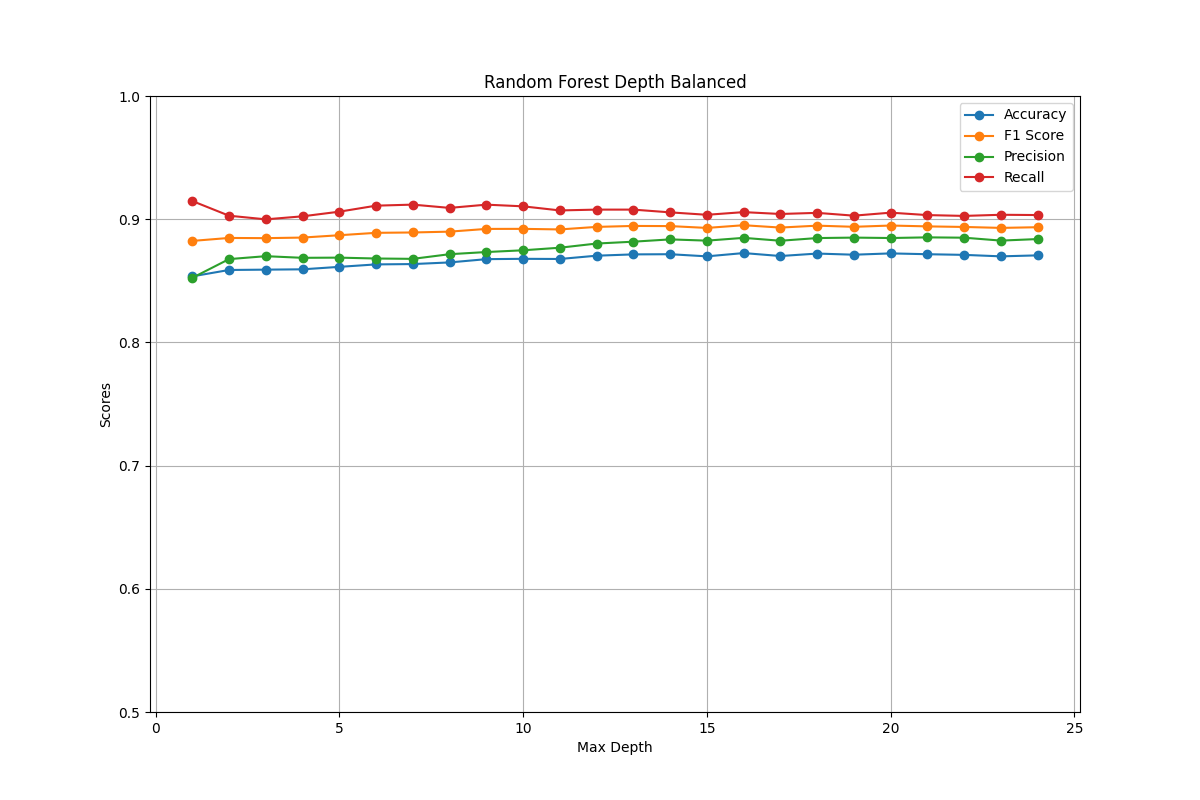
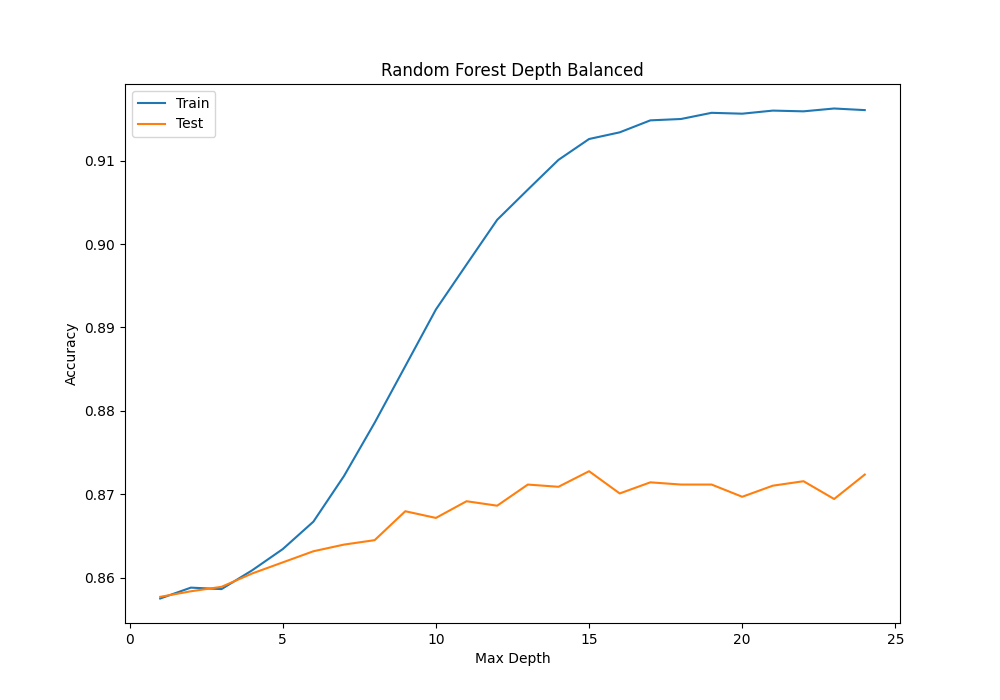
Modifiche a supervised

diff --git a/supervised.py b/supervised.py
@@ -1,5 +1,5 @@
 import pandas as pd
-from sklearn.model_selection import train_test_split, KFold, cross_validate, learning_curve
+from sklearn.model_selection import train_test_split, KFold, cross_validate
 from sklearn.preprocessing import StandardScaler, LabelEncoder
 from sklearn.ensemble import RandomForestClassifier, GradientBoostingClassifier
 from sklearn.linear_model import LogisticRegression
@@ -99,10 +99,15 @@ def training_randomforest_on_maxdepth(X_train, y_train, X_test, y_test, best_par
 
     max_depth_values = [i for i in range(1,25)]
 
-    accuracy_scores = []
-    f1_scores = []
-    precision_scores = []
-    recall_scores = []
+    accuracy_train_scores = []
+    f1_train_scores = []
+    precision_train_scores = []
+    recall_train_scores = []
+
+    accuracy_test_scores = []
+    f1_test_scores = []
+    precision_test_scores = []
+    recall_test_scores = []
 
     for max_depth in max_depth_values:
         model = RandomForestClassifier(
@@ -127,31 +132,32 @@ def training_randomforest_on_maxdepth(X_train, y_train, X_test, y_test, best_par
             'precision': make_scorer(precision_score),
             'recall': make_scorer(recall_score)
             }
-        results = cross_validate(pipe, X_train, y_train, cv=kf, scoring=scoring)
-        accuracy_scores.append(results['test_accuracy'].mean())
-        f1_scores.append(results['test_f1'].mean())
-        precision_scores.append(results['test_precision'].mean())
-        recall_scores.append(results['test_recall'].mean())
+        results = cross_validate(pipe, X_train, y_train, cv=kf, scoring=scoring, return_train_score=True)
+
+        accuracy_train_scores.append(results['train_accuracy'].mean())
+        f1_train_scores.append(results['train_f1'].mean())
+        precision_train_scores.append(results['train_precision'].mean())
+        recall_train_scores.append(results['train_recall'].mean())
+
+        accuracy_test_scores.append(results['test_accuracy'].mean())
+        f1_test_scores.append(results['test_f1'].mean())
+        precision_test_scores.append(results['test_precision'].mean())
+        recall_test_scores.append(results['test_recall'].mean())
 
     if three_class:
         if balanced:
-            plot_scores(max_depth_values, accuracy_scores, f1_scores, precision_scores, recall_scores, 'Max Depth', 'Random Forest Depth Balanced Three Class',three_class=True)
-            plot_learning_curve(X_train, y_train, pipe, 'Random Forest Depth Learning Curve Balanced Three Class',three_class=True)
+            plot_scores(max_depth_values, accuracy_train_scores, accuracy_test_scores, 'Max Depth', 'Random Forest Depth Balanced Three Class',three_class=True)
         else:
-            plot_scores(max_depth_values, accuracy_scores, f1_scores, precision_scores, recall_scores, 'Max Depth', 'Random Forest Depth Not Balanced Three Class',three_class=True)
-            plot_learning_curve(X_train, y_train, pipe, 'Random Forest Depth Learning Curve Not Balanced Three Class',three_class=True)
+            plot_scores(max_depth_values, accuracy_train_scores, accuracy_test_scores, 'Max Depth', 'Random Forest Depth Not Balanced Three Class',three_class=True)
     else:
         if balanced:
-            plot_scores(max_depth_values, accuracy_scores, f1_scores, precision_scores, recall_scores, 'Max Depth', 'Random Forest Depth Balanced',three_class=False)
-            plot_learning_curve(X_train, y_train, pipe, 'Random Forest Depth Learning Curve Balanced',three_class=False)
+            plot_scores(max_depth_values, accuracy_train_scores, accuracy_test_scores, 'Max Depth', 'Random Forest Depth Balanced',three_class=False)
         else:
-            plot_scores(max_depth_values, accuracy_scores, f1_scores, precision_scores, recall_scores, 'Max Depth', 'Random Forest Depth Not Balanced',three_class=False)
-            plot_learning_curve(X_train, y_train, pipe, 'Random Forest Depth Learning Curve Not Balanced',three_class=False)
-    
+            plot_scores(max_depth_values, accuracy_train_scores, accuracy_test_scores, 'Max Depth', 'Random Forest Depth Not Balanced',three_class=False)
  
     #convertire in numpy array per usare argmax
-    accuracy_scores = np.array(accuracy_scores)
-    best_accuracy = accuracy_scores.argmax()
+    accuracy_test_scores = np.array(accuracy_test_scores)
+    best_accuracy = accuracy_test_scores.argmax()
 
     model = RandomForestClassifier(
             criterion=best_params['model__criterion'],
@@ -161,6 +167,7 @@ def training_randomforest_on_maxdepth(X_train, y_train, X_test, y_test, best_par
     
     pipe = Pipeline([('scaler', StandardScaler()), ('model', model)])
     pipe.fit(X_train, y_train)
+    
     y_pred = pipe.predict(X_test)
 
     if three_class:
@@ -175,6 +182,7 @@ def training_randomforest_on_maxdepth(X_train, y_train, X_test, y_test, best_par
             plot_confusion_matrix(y_test, y_pred, 'RandomForestMaxDepthNotBalanced',three_class=False)
 
     if three_class:
+
         accuracy = accuracy_score(y_test, y_pred)
         f1 = f1_score(y_test, y_pred, average='macro', zero_division=0)
         precision = precision_score(y_test, y_pred, average='macro', zero_division=0)
@@ -253,17 +261,13 @@ def training_randomforest_on_n_estimators(X_train, y_train, X_test, y_test, best
         if three_class:
             if balanced:
                 plot_scores(n_estimators_values, accuracy_scores, f1_scores, precision_scores, recall_scores, 'N Estimators', 'Random Forest Estimators Balanced Three Class',three_class=True)
-                plot_learning_curve(X_train, y_train, pipe, 'Random Forest Estimators Learning Curve Balanced Three Class',three_class=True)
             else:
                 plot_scores(n_estimators_values, accuracy_scores, f1_scores, precision_scores, recall_scores, 'N Estimators', 'Random Forest Estimators Not Balanced Three Class',three_class=True)
-                plot_learning_curve(X_train, y_train, pipe, 'Random Forest Estimators Learning Curve Not Balanced Three Class',three_class=True)
         else:
             if balanced:
                 plot_scores(n_estimators_values, accuracy_scores, f1_scores, precision_scores, recall_scores, 'N Estimators', 'Random Forest Estimators Balanced',three_class=False)
-                plot_learning_curve(X_train, y_train, pipe, 'Random Forest Estimators Learning Curve Balanced',three_class=False)
             else:
                 plot_scores(n_estimators_values, accuracy_scores, f1_scores, precision_scores, recall_scores, 'N Estimators', 'Random Forest Estimators Not Balanced',three_class=False)
-                plot_learning_curve(X_train, y_train, pipe, 'Random Forest Estimators Learning Curve Not Balanced',three_class=False)
 
         accuracy_scores = np.array(accuracy_scores)
         best_accuracy = accuracy_scores.argmax()
@@ -371,17 +375,13 @@ def training_DecisionTree(X_train, y_train, X_test, y_test, best_params, balance
         if three_class:
             if balanced:
                 plot_scores(max_depth_values, accuracy_scores, f1_scores, precision_scores, recall_scores, 'Max Depth', 'Decision Tree Balanced Three Class',three_class=True)
-                plot_learning_curve(X_train, y_train, pipe, 'Decision Tree Learning Curve Balanced Three Class',three_class=True)
             else:
                 plot_scores(max_depth_values, accuracy_scores, f1_scores, precision_scores, recall_scores, 'Max Depth', 'Decision Tree Not Balanced Three Class',three_class=True)
-                plot_learning_curve(X_train, y_train, pipe, 'Decision Tree Learning Curve Not Balanced Three Class',three_class=True)
         else:
             if balanced:
                 plot_scores(max_depth_values, accuracy_scores, f1_scores, precision_scores, recall_scores, 'Max Depth', 'Decision Tree Balanced',three_class=False)
-                plot_learning_curve(X_train, y_train, pipe, 'Decision Tree Learning Curve Balanced',three_class=False)
             else:
                 plot_scores(max_depth_values, accuracy_scores, f1_scores, precision_scores, recall_scores, 'Max Depth', 'Decision Tree Not Balanced',three_class=False)
-                plot_learning_curve(X_train, y_train, pipe, 'Decision Tree Learning Curve Not Balanced',three_class=False)
 
         accuracy_scores = np.array(accuracy_scores)
         best_accuracy = accuracy_scores.argmax()
@@ -563,17 +563,13 @@ def training_GradientBoosting_on_maxdepth(X_train, y_train, X_test, y_test, best
             if three_class:
                 if balanced:
                     plot_scores(max_depth_values, accuracy_scores, f1_scores, precision_scores, recall_scores, 'Max Depth', 'Gradient Boosting Depth Balanced Three Class',three_class=True)
-                    plot_learning_curve(X_train, y_train, pipe, 'Gradient Boosting Depth Learning Curve Balanced Three Class',three_class=True)
                 else:
                     plot_scores(max_depth_values, accuracy_scores, f1_scores, precision_scores, recall_scores, 'Max Depth', 'Gradient Boosting Depth Not Balanced Three Class',three_class=True)
-                    plot_learning_curve(X_train, y_train, pipe, 'Gradient Boosting Depth Learning Curve Not Balanced Three Class',three_class=True)
             else:
                 if balanced:
                     plot_scores(max_depth_values, accuracy_scores, f1_scores, precision_scores, recall_scores, 'Max Depth', 'Gradient Boosting Depth Balanced',three_class=False)
-                    plot_learning_curve(X_train, y_train, pipe, 'Gradient Boosting Depth Learning Curve Balanced',three_class=False)
                 else:
                     plot_scores(max_depth_values, accuracy_scores, f1_scores, precision_scores, recall_scores, 'Max Depth', 'Gradient Boosting Depth Not Balanced',three_class=False)
-                    plot_learning_curve(X_train, y_train, pipe, 'Gradient Boosting Depth Learning Curve Not Balanced',three_class=False)
 
             accuracy_scores = np.array(accuracy_scores)
             best_acc = accuracy_scores.argmax()
@@ -683,17 +679,14 @@ def training_GradientBoosting_on_n_estimators(X_train, y_train, X_test, y_test, 
             if three_class:
                 if balanced:
                     plot_scores(n_estimators_values, accuracy_scores, f1_scores, precision_scores, recall_scores, 'N Estimators', 'Gradient Boosting Estimators Balanced Three Class',three_class=True)
-                    plot_learning_curve(X_train, y_train, pipe, 'Gradient Boosting Estimators Learning Curve Balanced Three Class',three_class=True)
                 else:
                     plot_scores(n_estimators_values, accuracy_scores, f1_scores, precision_scores, recall_scores, 'N Estimators', 'Gradient Boosting Estimators Not Balanced Three Class',three_class=True)
-                    plot_learning_curve(X_train, y_train, pipe, 'Gradient Boosting Estimators Learning Curve Not Balanced Three Class',three_class=True)
             else:
                 if balanced:
                     plot_scores(n_estimators_values, accuracy_scores, f1_scores, precision_scores, recall_scores, 'N Estimators', 'Gradient Boosting Estimators Balanced',three_class=False)
-                    plot_learning_curve(X_train, y_train, pipe, 'Gradient Boosting Estimators Learning Curve Balanced',three_class=False)
                 else:
                     plot_scores(n_estimators_values, accuracy_scores, f1_scores, precision_scores, recall_scores, 'N Estimators', 'Gradient Boosting Estimators Not Balanced',three_class=False)
-                    plot_learning_curve(X_train, y_train, pipe, 'Gradient Boosting Estimators Learning Curve Not Balanced',three_class=False)
+
         
             accuracy_scores = np.array(accuracy_scores)
             best_acc = accuracy_scores.argmax()
@@ -760,42 +753,14 @@ def training_GradientBoosting_on_n_estimators(X_train, y_train, X_test, y_test, 
                         f.write(f"Precision: {precision}\n")
                         f.write(f"Recall: {recall}\n")
 
-def plot_scores(x_values, accuracy_scores, f1_scores, precision_scores, recall_scores, x_label, title, three_class=True):
-    plt.figure(figsize=(12, 8))
-    
-    plt.plot(x_values, accuracy_scores, marker='o', label='Accuracy')
-    plt.plot(x_values, f1_scores, marker='o', label='F1 Score')
-    plt.plot(x_values, precision_scores, marker='o', label='Precision')
-    plt.plot(x_values, recall_scores, marker='o', label='Recall')
-    plt.ylim(0.5, 1)
+def plot_scores(x_values, accuracy_train_scores, accuracy_test_scores, x_label, title, three_class=True):
+    plt.figure(figsize=(10, 7))
+    plt.plot(x_values, accuracy_train_scores, label='Train')
+    plt.plot(x_values, accuracy_test_scores, label='Test')
     plt.xlabel(x_label)
-    plt.ylabel('Scores')
+    plt.ylabel('Accuracy')
     plt.title(title)
     plt.legend()
-    plt.grid(True)
-    if three_class:
-        plt.savefig(f'ThreeClassModels/{title}.png')
-    else:
-        plt.savefig(f'BinaryModels/{title}.png')
-
-def plot_learning_curve(X_train, y_train, model, title, three_class=True):
-    train_sizes, train_scores, test_scores = learning_curve(model, X_train, y_train, cv=5, n_jobs=-1, train_sizes=np.linspace(.1, 1.0, 10))
-    train_scores_mean = np.mean(train_scores, axis=1)
-    train_scores_std = np.std(train_scores, axis=1)
-    test_scores_mean = np.mean(test_scores, axis=1)
-    test_scores_std = np.std(test_scores, axis=1)
-
-    plt.figure(figsize=(10, 7))
-    plt.grid()
-    plt.plot(train_sizes, train_scores_mean, 'o-', color="r",
-             label="Training score")
-    plt.plot(train_sizes, test_scores_mean, 'o-', color="g",
-             label="Cross-validation score")
-
-    plt.xlabel("Training examples")
-    plt.ylabel("Score")
-    plt.legend(loc="best")
-    plt.title(title)
     if three_class:
         plt.savefig(f'ThreeClassModels/{title}.png')
     else:
@@ -873,9 +838,9 @@ def main():
     print("Random Forest non bilanciato binario")
     best_params_rf = search_best_hyperparameters(X_train, y_train, 'RandomForest')
     training_randomforest_on_maxdepth(X_train, y_train, X_test, y_test, best_params_rf, balanced=False, three_class=False)
-    training_randomforest_on_n_estimators(X_train, y_train, X_test, y_test, best_params_rf, balanced=False, three_class=False)
+    #training_randomforest_on_n_estimators(X_train, y_train, X_test, y_test, best_params_rf, balanced=False, three_class=False)'''
 
-    # Logistic Regression
+    '''# Logistic Regression
     print("Logistic Regression non bilanciato binario")
     best_params_lr = search_best_hyperparameters(X_train, y_train, 'LogisticRegression')
     training_LogisticRegression(X_train, y_train, X_test, y_test, best_params_lr, balanced=False, three_class=False)
@@ -919,11 +884,11 @@ def main():
 
     X_train, y_train, X_test, y_test = preprocess_data(balanced=True, three_class=False)
 
-    #Random Forest
+    '''#Random Forest
     print("Random Forest bilanciato binario")
     best_params_rf = search_best_hyperparameters(X_train, y_train, 'RandomForest')
-    training_randomforest_on_maxdepth(X_train, y_train, X_test, y_test, best_params_rf, balanced=True, three_class=False)
-    training_randomforest_on_n_estimators(X_train, y_train, X_test, y_test, best_params_rf, balanced=True, three_class=False)
+    training_randomforest_on_maxdepth(X_train, y_train, X_test, y_test, best_params_rf, balanced=True, three_class=False)'''
+    '''training_randomforest_on_n_estimators(X_train, y_train, X_test, y_test, best_params_rf, balanced=True, three_class=False)
 
     # Logistic Regression
     print("Logistic Regression bilanciato binario")
@@ -939,7 +904,7 @@ def main():
     print("Gradient Boosting bilanciato binario")
     best_params_gb = search_best_hyperparameters(X_train, y_train, 'GradientBoosting')
     training_GradientBoosting_on_maxdepth(X_train, y_train, X_test, y_test, best_params_gb, balanced=True, three_class=False)
-    training_GradientBoosting_on_n_estimators(X_train, y_train, X_test, y_test, best_params_gb, balanced=True, three_class=False)
+    training_GradientBoosting_on_n_estimators(X_train, y_train, X_test, y_test, best_params_gb, balanced=True, three_class=False)'''
 
 
     X_train, y_train, X_test, y_test = preprocess_data(balanced=True, three_class=True)
@@ -948,7 +913,7 @@ def main():
     print("Random Forest bilanciato tre classi")
     best_params_rf = search_best_hyperparameters(X_train, y_train, 'RandomForest')
     training_randomforest_on_maxdepth(X_train, y_train, X_test, y_test, best_params_rf, balanced=True, three_class=True)
-    training_randomforest_on_n_estimators(X_train, y_train, X_test, y_test, best_params_rf, balanced=True, three_class=True)
+    '''training_randomforest_on_n_estimators(X_train, y_train, X_test, y_test, best_params_rf, balanced=True, three_class=True)
 
     # Logistic Regression
     print("Logistic Regression bilanciato tre classi")
@@ -978,7 +943,7 @@ def main():
     Naive_Bayes(X_train, y_train, X_test, y_test, balanced=False, three_class=False)
 
     X_train, y_train, X_test, y_test = preprocess_data(balanced=False, only_categorical=True, three_class=True)
-    Naive_Bayes(X_train, y_train, X_test, y_test, balanced=False, three_class=True)
+    Naive_Bayes(X_train, y_train, X_test, y_test, balanced=False, three_class=True)'''
 
 
 main()
